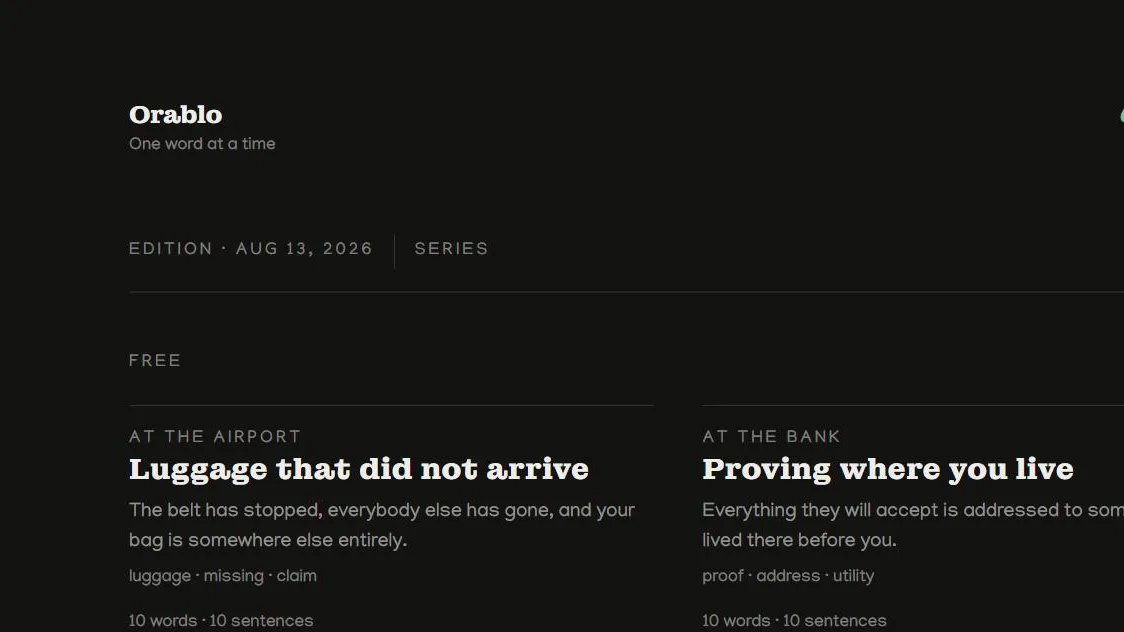
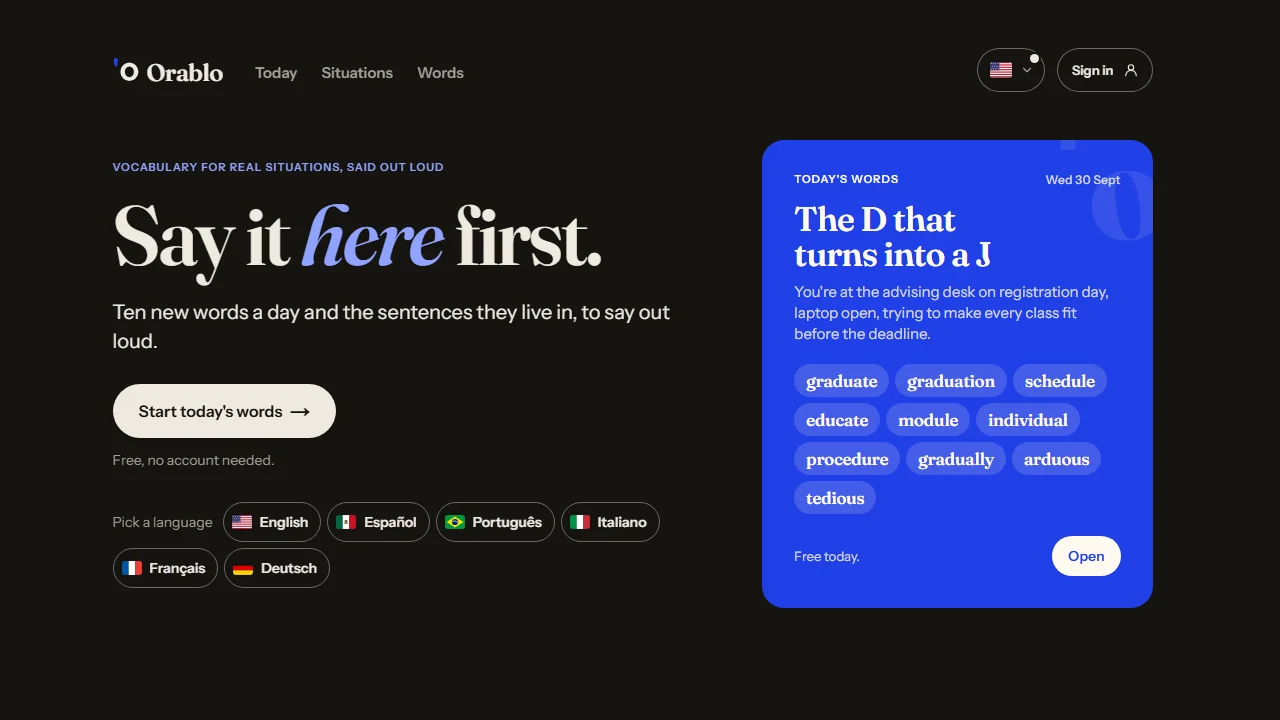
feat: drop Dahibi, list Orablo first and refresh product screenshots
Remove Dahibi from the projects list, move Orablo above Vinqua, and
replace both screenshots with current captures of the live home pages.

diff --git a/src/data.js b/src/data.js
@@ -125,14 +125,6 @@ export const data = {
     ],
     projects: [
         {
-            title: "Vinqua",
-            description:
-                "Free VIN check that pulls every public U.S. government record on a vehicle into one report: full specification decode, open safety recalls, the parts owners most often report failing, crash-test ratings and real-world fuel economy. No account and no card.",
-            technologies: ["Next.js", "React", "TypeScript", "Tailwind", "Cloudflare Workers"],
-            image: "/vinqua.webp",
-            link: "https://vinqua.com/"
-        },
-        {
             title: "Orablo",
             description:
                 "Daily pronunciation practice in 6 languages. Every day is a new edition of ten words and the sentences they live in, graded in the browser by speech recognition.",
@@ -141,12 +133,12 @@ export const data = {
             link: "https://orablo.com/"
         },
         {
-            title: "Dahibi",
+            title: "Vinqua",
             description:
-                "One moodboard per day for anything that runs on days. Each day is an infinite canvas for photos, notes and colour swatches, and it is local-first, so everything stays in the browser.",
-            technologies: ["Next.js", "React", "TypeScript", "Tailwind", "IndexedDB"],
-            image: "/dahibi.webp",
-            link: "https://dahibi.com/"
+                "Free VIN check that pulls every public U.S. government record on a vehicle into one report: full specification decode, open safety recalls, the parts owners most often report failing, crash-test ratings and real-world fuel economy. No account and no card.",
+            technologies: ["Next.js", "React", "TypeScript", "Tailwind", "Cloudflare Workers"],
+            image: "/vinqua.webp",
+            link: "https://vinqua.com/"
         },
         {
             title: "Por Amor a Tobby",
